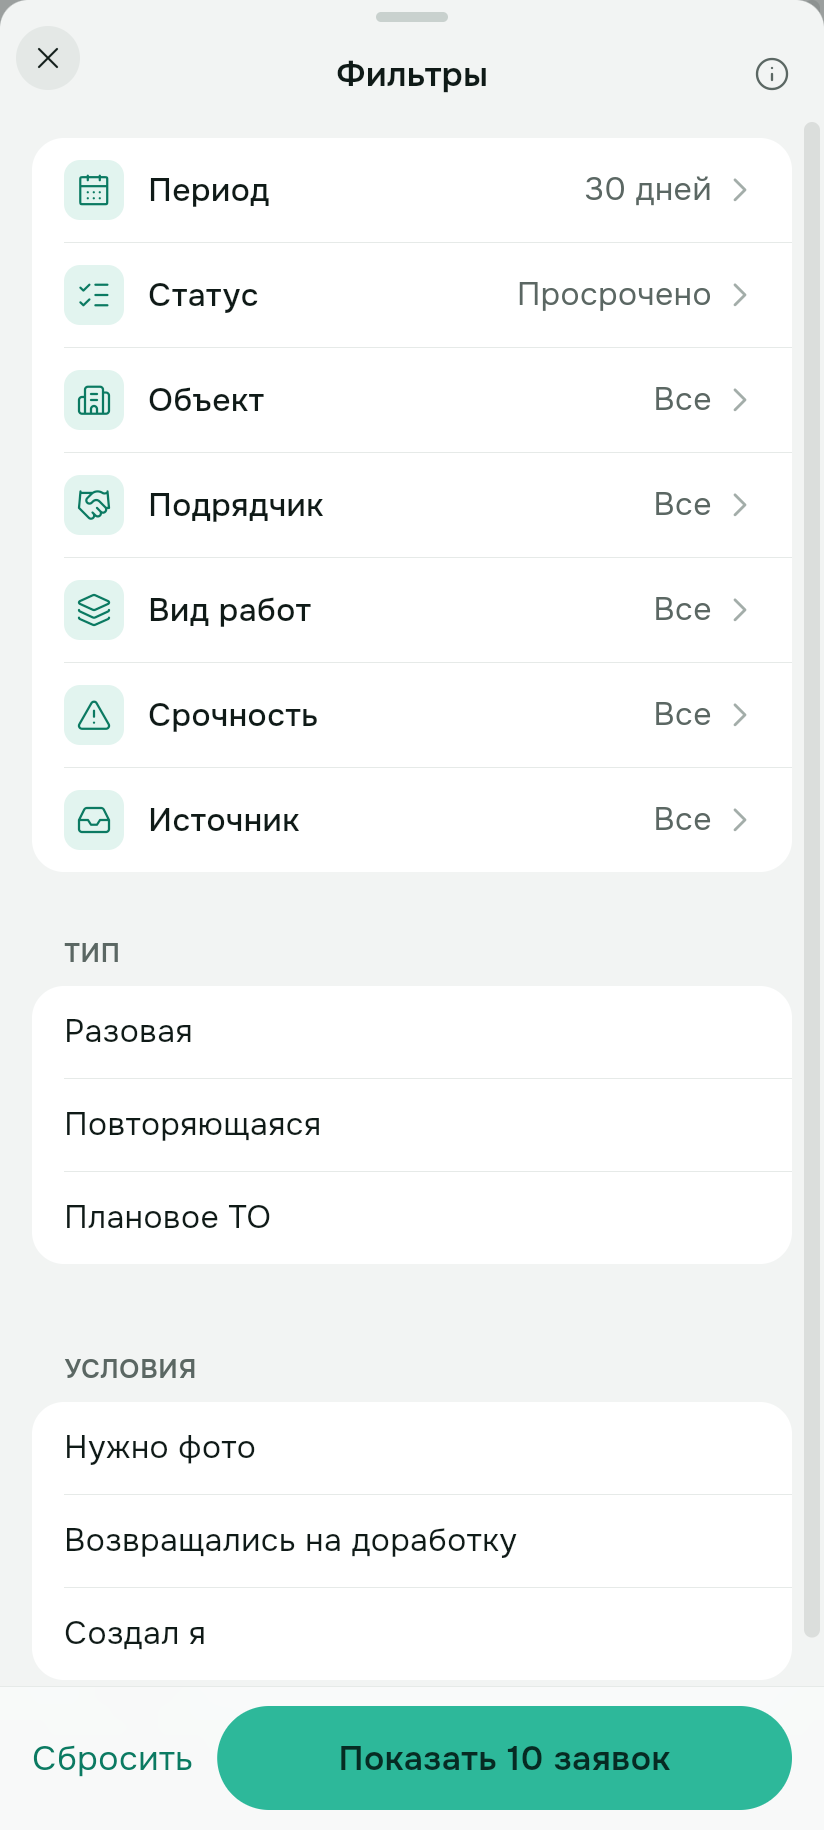
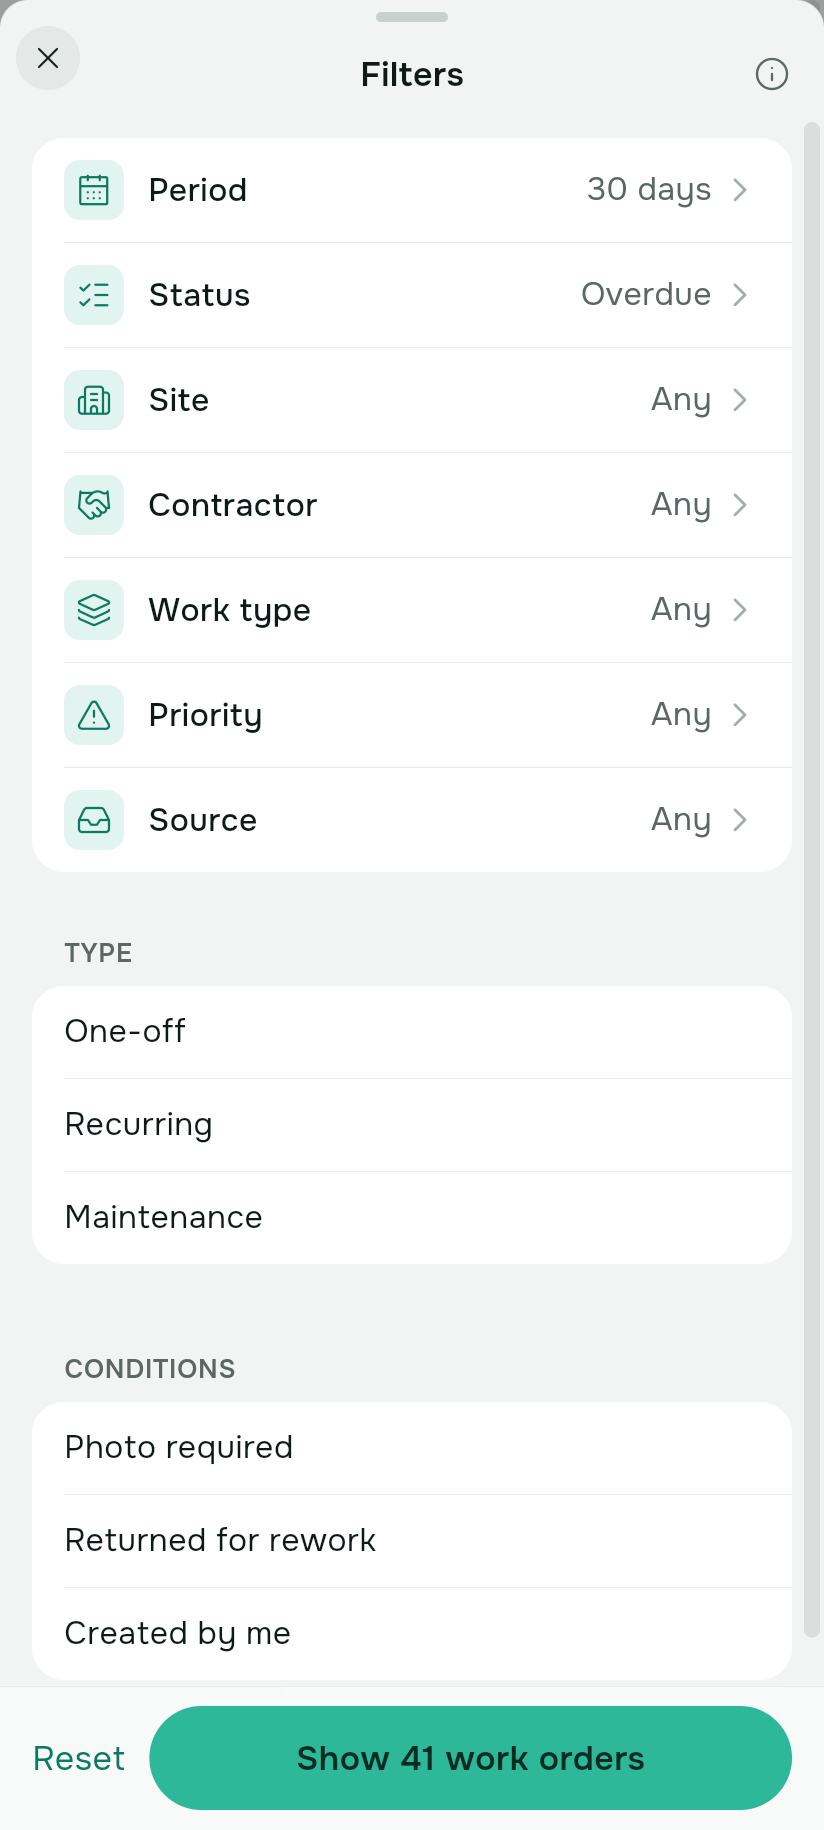
Шаг 35b (блок 2): кадры питча на английском с рабочей базы, макеты чата бота EN, английский режим e2e-сценария 17

diff --git a/CLAUDE.md b/CLAUDE.md
@@ -65,6 +65,7 @@ Hey Helpy — ИИ-сервис эксплуатации зданий (CMMS / fa
 - **«AR-метки» (шаг 31, V0 своей технологии позиционирования, основной APK)** — подробно `docs/research/ar-own-positioning.md`. Нативный экран `android/arlabel/` (`ArLabelActivity`: камера ARCore — свой `BackgroundRenderer` на GLES 2, без SceneView; прицел → «Что это?» → hit-test (плоскости, точки глубины) → временный якорь, кадр ARCore → JPEG ≤ 1280 px → `photo-identify` с `box: true` → один уверенный кандидат (`ArLabelLogic.choose`, лидер на 0,15) — табличка, несколько — «Что это? Выберите оборудование», рамка от ИИ — якорь в её центре (луч из позы камеры при снимке); до 10 табличек, повтор по тому же оборудованию переставляет (`LabelSlots`); касание — «Карточка оборудования» / «Создать заявку» / «Убрать метку»; журнал 0017 — REST с JWT; без сети — сообщение и выход). ARCore только локально: Cloud Anchors, Geospatial, Instant Placement выключены явно. Общее с VPS — `android/arcommon/` (`PoseMath`, `SupabaseRest`, `ArTexts`, `LabelCard`). Мост — `ArLabelHook.kt` в `app/src/main` (канал `hey_helpy/arlabel`: `status`, `open`). JUnit: `./gradlew :arcommon:testDebugUnitTest :arlabel:testDebugUnitTest`. Flutter: `lib/features/arlabel/` (`arlabel_logic.dart` — сводка по оборудованию объекта, ответ экрана, `arLabelNativeTexts` (все строки из `.arb`, шаблоны `{n}` / `{date}` подставляет Kotlin), тесты `test/arlabel_logic_test.dart` со сверкой ключей Kotlin; `arlabel_launch.dart` — `openArLabels`, `createOrderFromArLabel`). Кнопки «AR-метки» («Камера-помощник») и «AR-метки здесь» (шторка помещения на плане) — только когда `ArLabelChannel.status().available` (Android с ARCore).
 - **Сайт продукта (шаг 29, правки шага 32)** — отдельно от приложения, `docs/site/README.md`. Шаг 32: подзаголовок главной = «Для кого» (БЦ и ТЦ, сети и ритейл, УК и FM, госзаказчики) — и в description / OG / llms; QR «Запросить демо» в «Контактах» — SVG из `assets/site/qr-demo.svg` (`node tools/site/qr.mjs`, пакет `qrcode` только там; сборка без зависимостей), QR сайта — `docs/site/qr-site.svg`, `docs/screens/site/qr-site.png`; раздел «AR-метки» в «Возможностях»; в политике — «Сервисы Google Play для AR»; проверка 360 / 412 px и снимки — `tools/site/shots.mjs` → `docs/screens/site/`; `<!DOCTYPE html>` (html-validate без исключений). Слова — «Слова в интерфейсе» ниже. Устройство: статический HTML без JS в `site/` (генерирует `node tools/site/build.mjs` из `tools/site/content.ru.mjs` / `content.en.mjs`, `config.mjs` — адрес `SITE_URL`, контакт `CONTACT` (только Telegram-бот `?start=demo`, e-mail и телефон не публикуем); руками `site/*.html` не править), картинки — `assets/site/` (хук `block_secrets`), проверка `node tools/site/check.mjs build/site` (её же делает «PR check»). Публикуется **той же выкладкой «Deploy web»** в `/hey-helpy/site/` (Pages заменяет сайт целиком); «Deploy site» — ручной вызов того же файла. Оценка для поисковиков и ИИ — `docs/site/ai-readiness-2026-10-23.md` (методика — `…-10-16.md`). Все факты — только из репозитория, без выдуманных клиентов, отзывов и цифр.
 - **Калькулятор окупаемости (шаг 35)** — страница `roi/` (RU — `ru/roi/`), пункт меню «ROI» / «Окупаемость», ссылки с главной, из FAQ («Сколько стоит?», «Окупится ли Hey Helpy для нас?»), из `llms.txt` и sitemap. Бриф и все цифры — `docs/site/roi-calculator-brief.md` (цифры из головы не брать). **`tools/site/roi.mjs` — единственный источник формул, цен (S / M / L за объект, USD / EUR / AED), зарплат, курсов и допущений**; тесты `node --test tools/site/roi.test.mjs` (контрольные примеры брифа, раздел 7; запускает «PR check»). Переплаты по умолчанию 3 % (3–10 %), больше 30 000 м² — «индивидуальная цена» без расчёта, подрядчики не платят, процента от расходов на подрядчиков нет. `ROI_SHOW_PRICES` в `config.mjs`: `false` — без цен и ROI, «Цена — по запросу» везде (калькулятор, FAQ, llms, JSON-LD). **Исключение из «без JS» — только эта страница**: один встроенный скрипт (текст `roi.mjs` без `export` + `roi_ui.js`, собирает `roi_page.mjs`), без сети, cookies, `localStorage` и счётчиков (проверяет `check.mjs`); без JS видны контрольные примеры, цены и «Как мы считаем», форма скрыта до запуска скрипта. Обязательная подпись «Это оценка…, а не обещание» под результатом; слова «гарантия» на сайте нет (проверяет `check.mjs`). «Запросить демо» с калькулятора → бот `?start=roi` (пометка `[ROI calculator]` в тексте лида, база не менялась). У кадров с «AC-301 · 91 %» — подпись «Demo frame — not measured accuracy» / «Демо-кадр, не замеренная точность» (сайт, `docs/screens/pitch/README.md`).
+- **Кадры сайта и питча — только английские (шаг 35b)**: обе версии сайта (`/` и `/ru/`) показывают английские кадры приложения (рабочая база, «Demo Properties»), английский ролик `docs/demo/hey-helpy-demo-v2.mp4` (запись `bash tools/e2e/record_demo.sh --v2-only` — локальная база с заглушкой ИИ, поэтому в углу ролика пометка «Demo data · AI responses simulated») и английские OG-картинки; `alt` и подписи — на языке страницы. Макеты чата бота (`tools/screens/tg_*_mock.mjs`) — английские тексты `texts.ts`; у подрядчика в Telegram — только «Open» (без «Start work»). Проверка «нет кириллицы в картинках» — `node tools/site/ocr_check.mjs` (tesseract + rus, вручную, не в «PR check»). После пересъёмки кадров — `node tools/site/images.mjs` и `node tools/site/og.mjs`.
 - `lib/features/readiness/` — «Моя компания» → **«Готовность к показу»** (шаг 29, только администратор): база, миграции 0017–0025 (таблица / столбец под RLS), 5 функций (проверочные запросы: ответ 2xx / 400 / 401 / 403 / 404 — жива), вебхук бота (`telegram-notify` `{kind: "webhook"}` → `{configured, pending, last_error_age_s}`, только администратор, `supabase/functions/telegram-notify/health.ts`), голос и «По фото» — настоящий разбор проверочной фразы и `assets/demo_photos/ac_indoor.jpg`, журнал 0017 за 24 ч, свежесть Refresh demo по самой новой демо-заявке. Логика цветов — `readiness_logic.dart`, тесты `test/readiness_test.dart`.
 - `lib/features/recognition_eval/` — **«Тест распознавания»** (шаг 34, данные — 0028, функция `recognition-eval`; «Моя компания» → только администратор): `eval_screen.dart` (наборы, счётчики «до цели 300», виды, «Заморозить test-набор», поставщик ИИ, «Прогон на dev» / «Итоговый прогон на test», прогоны), `eval_add_photo.dart` (объект и помещение → снимок 1280 px JPEG 80 % как у «Узнать по фото» (веб — файл) → человек отмечает единицу реестра помещения или «нет в реестре» → условия съёмки → «Сохранить и снять ещё» — серия), `eval_photos_screen.dart` (фото набора, удалить — пока не заморожен), `eval_report_screen.dart` (Top-1 / Top-3 / вид / ложные узнавания с интервалом Уилсона, пороги, разбивки, время, примеры ошибок; «Отчёт (PDF)», «Данные (CSV)»), `eval_pdf.dart` (**отложенно**), `eval_runner.dart` (пачками по 3, повторы при сбое сети, «Остановить»), `eval_models.dart` (модели, сводка, разбор отчёта функции, CSV; тесты `test/recognition_eval_test.dart`), `eval_repository.dart`, `eval_labels.dart`. Метрики считает функция, приложение только показывает. Памятка для владельца — `docs/RECOGNITION_TEST.md`.
 - `lib/core/schema_compat.dart` — `SchemaCompat.run('NNNN', новый запрос, legacy: старый)`: приложение работает и на базе без новой миграции; экран нового раздела показывает `l10n.migrationNeeded('NNNN')`.
